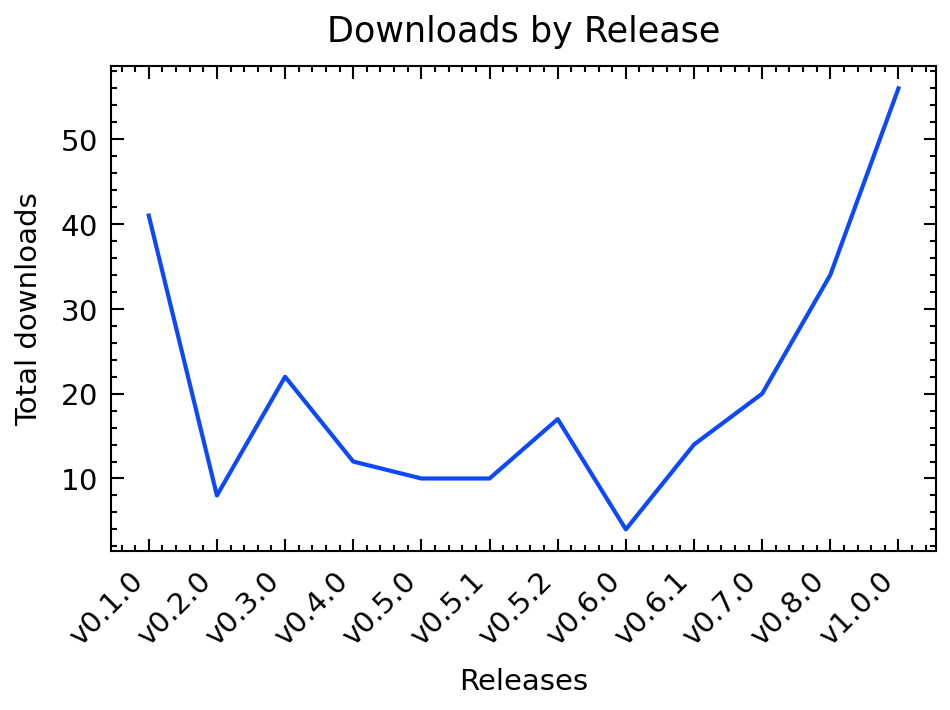
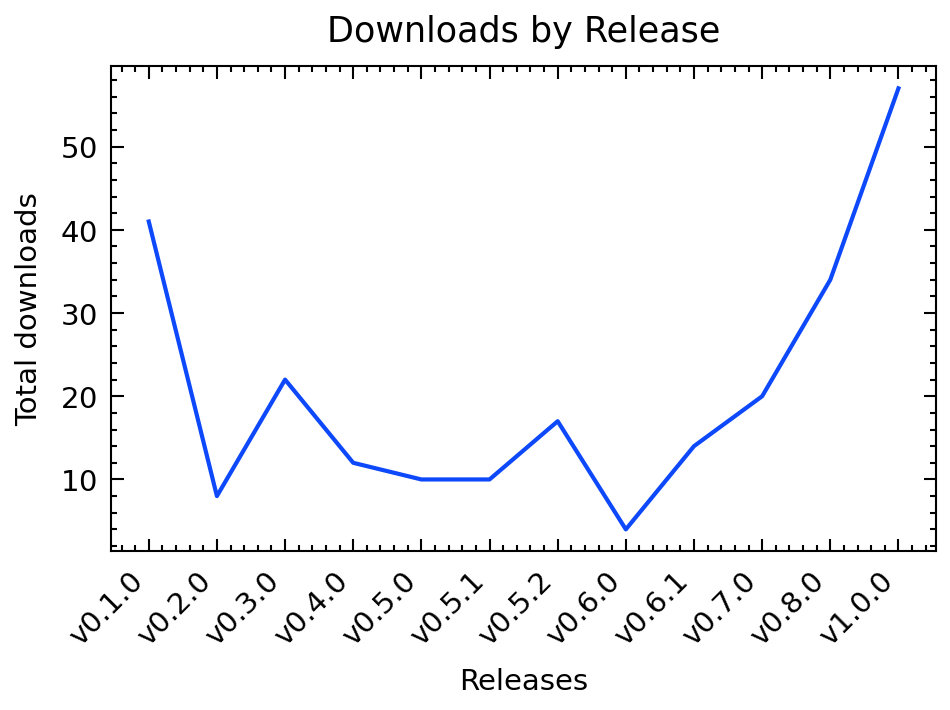
Updated Metrics data

diff --git a/README.md b/README.md
@@ -4,7 +4,7 @@
 SciWIn-Client helps users creating **Computational Workflows** in CWL. Detailed Information about SciWIn-Client can be found in the [GitHub Repository](https://github.com/fairagro/m4.4_sciwin_client). The Metrics shown below have been calculated using the GitHub API. Presentation is done via a CWL Workflow and the scripts in this repository.
 
 ## Downloads by Version
-SciWIn-Client currently has about 248 overall downloads across all versions and operating systems. The lastest version v1.0.0 currently has 56 downloads.
+SciWIn-Client currently has about 249 overall downloads across all versions and operating systems. The lastest version v1.0.0 currently has 57 downloads.
 
 
 ![downloads by version](release.png)
@@ -12,7 +12,7 @@ SciWIn-Client currently has about 248 overall downloads across all versions and 
 
 | Version | Downloads |
 |---------|-----------|
-| v1.0.0 | 56|
+| v1.0.0 | 57|
 | v0.8.0 | 34|
 | v0.7.0 | 20|
 | v0.6.1 | 14|
@@ -27,7 +27,7 @@ SciWIn-Client currently has about 248 overall downloads across all versions and 
 
 
 ## Downloads by Operating System
-SciWIn-Client is used on all major operating systems. There are 143 downloads of the Linux executable, 44 downloads of the Windows executable and 61 downloads of the Mac OS executable.
+SciWIn-Client is used on all major operating systems. There are 143 downloads of the Linux executable, 45 downloads of the Windows executable and 61 downloads of the Mac OS executable.
 
 
 ![downloads by platform](platform.png)
@@ -38,12 +38,12 @@ SciWIn-Client is used on all major operating systems. There are 143 downloads of
 | MacOS (ARM) | 36|
 | Linux (ARM) | 31|
 | MacOS (x64) | 25|
-| Windows (x64) | 44|
+| Windows (x64) | 45|
 | Linux (x64) | 112|
 
 
 ## Historical Download Chart
-The historical download chart can be viewed below. It is shown how the 248 overall downloads progressed over time by using the commited data of this repository.
+The historical download chart can be viewed below. It is shown how the 249 overall downloads progressed over time by using the commited data of this repository.
 
 
 ![downloads by date](history.png)
